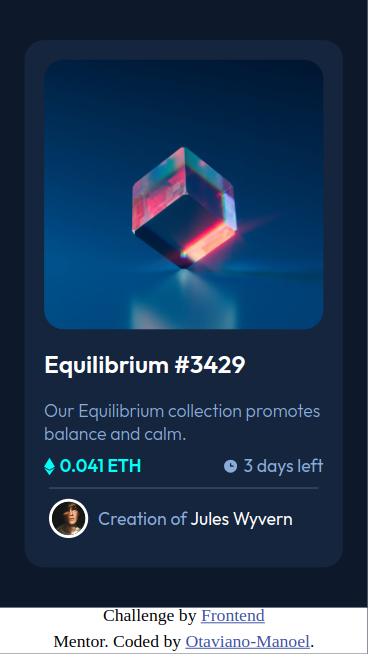
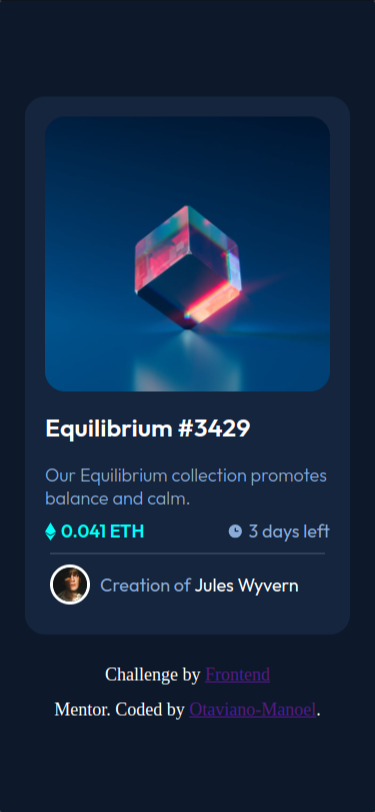
Update README

diff --git a/index.html b/index.html
@@ -39,15 +39,15 @@
         <p class="creation-by">Creation of <span class="name">Jules Wyvern</span></p>
       </div>
     </div>
+
+    <footer class="attribution">
+      <span>
+        Challenge by <a href="https://www.frontendmentor.io?ref=challenge" target="_blank">Frontend </a></span>
+  
+      <span> Mentor</a>.
+        Coded by <a href="https://www.frontendmentor.io/profile/Otaviano-Manoel">Otaviano-Manoel</a>.</span>
+    </footer>
   </main>
-
-  <footer class="attribution">
-    <span>
-      Challenge by <a href="https://www.frontendmentor.io?ref=challenge" target="_blank">Frontend </a></span>
-
-    <span> Mentor</a>.
-      Coded by <a href="https://www.frontendmentor.io/profile/Otaviano-Manoel">Otaviano-Manoel</a>.</span>
-  </footer>
 </body>
 
 </html>

diff --git a/src/css/style.css b/src/css/style.css
@@ -6,8 +6,10 @@ body {
 
 .background {
     background-color: hsl(217, 54%, 11%);
-    height: 95%;
+    min-height: 100vh;
+    max-height: auto;
     display: flex;
+    flex-direction: column;
     justify-content: center;
     align-items: center;
 }
@@ -122,14 +124,11 @@ body {
 
 
 
-.attribution {
-    display: flex;
-    height: 5%;
-    font-size: 22px;
-    justify-content: center;
-    align-items: center;
-}
-
-.attribution a {
-    color: hsl(228, 45%, 44%);
+.attribution{
+    margin-top: 25px;
+    bottom: 15px;
+    font-size: 20px;
+    text-align: center;
+    line-height: 30px;
+    color: white;
 }

diff --git a/README.md b/README.md
@@ -12,38 +12,42 @@ This is a solution to the [NFT preview card component challenge on Frontend Ment
   - [Built with](#built-with)
   - [What I learned](#what-i-learned)
   - [Continued development](#continued-development)
+  - [Useful resources](#useful-resources)
 - [Author](#author)
 
 ## Overview
 
 ### The challenge
 
+Users should be able to:
+
+- View the optimal layout for the site depending on their device's screen size
+
 ### Screenshot
-![Screenshot of desktop screen - 1440px](./src/images/Screenshot-desktop.png)
 
-![Screenshot of desktop screen - 1440px](./src/images/Screenshot-desktop-active.png)
-
-![Mobile screen screenshot - 375px](./src/images/screenshot-mobile.png)
-![Mobile screen screenshot - 375px](./src/images/Screenshot-mobile-active.png)
+![screen desktop](./src/images/screenshot-desktop.png)
+![screen hover desktop](./src/images/screenshot-hover-desktop.png)
+![screen mobile](./src/images/screenshot-mobile.png)
+![screen hover mobile](./src/images/screenshot-hover-mobile.png)
 
 ### Links
 
-- Solution URL: [Add solution URL here](https://www.frontendmentor.io/solutions/display-flex-NfpduQXUTE)
-- Live Site URL: [Add live site URL here](https://your-live-site-url.com)
+- Solution URL: [Solution URL here](https://www.frontendmentor.io/solutions/display-flex-NfpduQXUTE)
+- Live Site URL: [Live site URL here](https://otaviano-manoel.github.io/nft-card-display-flex/)
 
 ## My process
 
 ### Built with
 
-- Semantic HTML5 markup
-- CSS custom properties
-- Flex
+<code><img height="32" src="https://raw.githubusercontent.com/github/explore/80688e429a7d4ef2fca1e82350fe8e3517d3494d/topics/html/html.png" alt="HTML5"/></code>
+<code><img height="32" src="https://raw.githubusercontent.com/github/explore/80688e429a7d4ef2fca1e82350fe8e3517d3494d/topics/css/css.png" alt="CSS"/></code>
+
 
 ### What I learned
 
-In this HTML with CSS project, I chose to improve my use of display: flex and its ways of aligning flexible elements.
+In this project, I practiced the use of display: flex, which is a great property for aligning and arranging child elements. I used this to center them in the middle of the screen.
 
-Alignment method applied in this project.
+I centered it using `display: flex` in the middle of the screen.
 ```css
 .background {
     display: flex;
@@ -52,19 +56,17 @@ Alignment method applied in this project.
 }
 ```
 
-Alignment method applied in my last project.
-```css
-main {
-    position: absolute;
-    top: 50%;
-    left: 50%;
-    transform: translate(-50%, -50%);
-}
-```
-
 ### Continued development
 
-I will continue working on HTML and CSS projects to improve myself. And now I'm going to look for a challenge that requires greater mobile responsiveness.
+For my next project, I will seek to work on responsiveness. It's a property that styles a website differently for each screen resolution.
+
+### Useful resources
+
+- [W3Schools](https://www.w3schools.com/css/default.asp) - 
+I used W3Schools to clarify my doubts and I really liked their examples, which clarify how to use CSS properties.
+
+- [MDN Web Docs](https://developer.mozilla.org/pt-BR/) - I'd like you to get to know MDN Web Docs, which helped me a lot in understanding HTML tags.
 
 ## Author
-- Frontend Mentor - [@Otaviano Manoel](https://www.frontendmentor.io/profile/otaviano-manoel)
+
+- Frontend Mentor - [@Otaviano-Manoel](https://www.frontendmentor.io/profile/Otaviano-Manoel)
